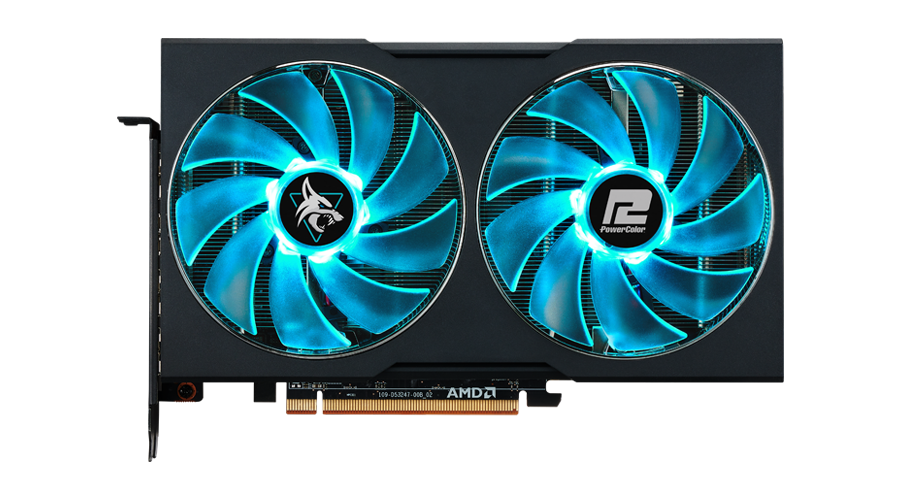
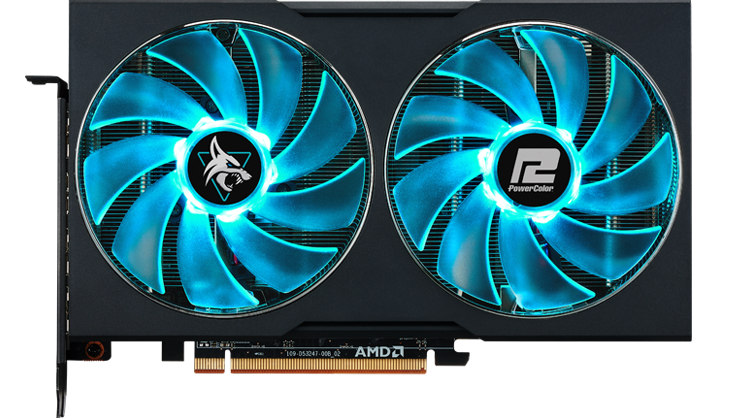
main

diff --git a/Grafikkarten.html b/Grafikkarten.html
@@ -16,36 +16,36 @@
 			</nav>
       <!--Produkte-->
       <div class="grid">
-        <h2 class="ASUS-TUF-Gaming-GeForce-RTX-3060-V2-OC">Grafikkarten/ASUS TUF Gaming GeForce RTX 3060 V2 OC<p class=""> <br></p></h2>
-        <h2 class="ASUS-Dual-GeForce-RTX-3060-Ti-V2-OC">ASUS Dual GeForce RTX 3060 Ti V2 OC<p class=""> <br></p></h2>
-        <h2 class="MSI-GeForce-RTX-3070-Gaming-Z-Trio">Bilder/Grafikkarten/MSI GeForce RTX 3070 Gaming Z Trio<p class=""> <br></p></h2>
-          <a class="ASUS-TUF-Gaming-GeForce-RTX-3060-V2-OC-img" href=""><img src="Bilder/Grafikkarten/ASUS TUF Gaming GeForce RTX 3060 V2 OC.png" height="90%" alt=""></a>
-          <a class="ASUS-Dual-GeForce-RTX-3060-Ti-V2-OC-img" href=""><img src="Bilder/Grafikkarten/ASUS Dual GeForce RTX 3060 Ti V2 OC.png" height="90%" alt=""></a>
-          <a class="MSI-GeForce-RTX-3070-Gaming-Z-Trio-img" href=""><img src="Bilder/Grafikkarten/MSI GeForce RTX 3070 Gaming Z Trio.png" height="90%" alt=""></a>
-        <h2 class="NVIDIA-GeForce-RTX-3070-Founders-Edition">NVIDIA GeForce RTX 3070 Founders Edition<p class=""> <br></p></h2>
-        <h2 class="MSI-GeForce-RTX-3070-Ti-Suprim-X">MSI GeForce RTX 3070 Ti Suprim X<p class=""> <br></p></h2>
-        <h2 class="GIGABYTE-AORUS-GeForce-RTX-3080-Master">GIGABYTE AORUS GeForce RTX 3080 Master<p class=""> <br></p></h2>
-          <a class="NVIDIA-GeForce-RTX-3070-Founders-Edition-img" href=""><img src="Bilder/Grafikkarten/NVIDIA GeForce RTX 3070 Founders Edition.png" height="90%" alt=""></a>
-          <a class="MSI-GeForce-RTX-3070-Ti-Suprim-X-img" href=""><img src="Bilder/Grafikkarten/MSI GeForce RTX 3070 Ti Suprim X .png" height="90%" alt=""></a>
-          <a class="GIGABYTE-AORUS-GeForce-RTX-3080-Master-img" href=""><img src="Bilder/Grafikkarten/GIGABYTE AORUS GeForce RTX 3080 Master.png" height="90%" alt=""></a>
-        <h2 class="">Bilder/Grafikkarten/NVIDIA GeForce RTX 3080 Founders Edition<p class=""> <br></p></h2>
-        <h2 class="">Bilder/Grafikkarten/KFA² GeForce RTX 2080 Ti HOF<p class=""> <br></p></h2>
-        <h2 class="">NVIDIA GeForce RTX 3090 Founders Edition<p class=""> <br></p></h2>
-          <a class="" href=""><img src="Bilder/Grafikkarten/NVIDIA GeForce RTX 3080 Founders Edition.png" height="90%" alt=""></a>
-          <a class="" href=""><img src="Bilder/Grafikkarten/KFA² GeForce RTX 2080 Ti HOF.png" height="90%" alt=""></a>
-          <a class="" href=""><img src="Bilder/Grafikkarten/NVIDIA GeForce RTX 3090 Founders Edition.png" height="90%" alt=""></a>
-        <h2 class="">ASUS ROG Strix GeForce RTX 3090 OC<p class=""> <br></p></h2>
-        <h2 class="">PowerColor Radeon RX 6600 Hellhound<p class=""> <br></p></h2>
-        <h2 class="">MSI Radeon RX 6600 XT Gaming X<p class=""> <br></p></h2>
-          <a class="" href=""><img src="Bilder/Grafikkarten/ASUS ROG Strix GeForce RTX 3090 OC.png" height="90%" alt=""></a>
-          <a class="" href=""><img src="Bilder/Grafikkarten/PowerColor Radeon RX 6600 Hellhound.png" height="90%" alt=""></a>
-          <a class="" href=""><img src="Bilder/Grafikkarten/MSI Radeon RX 6600 XT Gaming X.png" height="90%" alt=""></a>
-        <h2 class="">ASUS Radeon RX 6700 XT Dual<p class=""> <br></p></h2>
-        <h2 class="">PowerColor Radeon RX 6800 XT Red Devil<p class=""> <br></p></h2>
-        <h2 class="">Sapphire Toxic Radeon RX 6900 XT<p class=""> <br></p></h2>
-          <a class="" href=""><img src="Bilder/Grafikkarten/ASUS Radeon RX 6700 XT Dual.png" height="90%" alt=""></a>
-          <a class="" href=""><img src="Bilder/Grafikkarten/PowerColor Radeon RX 6800 XT Red Devil.png" height="90%" alt=""></a>
-          <a class="" href=""><img src="Bilder/Grafikkarten/Sapphire Toxic Radeon RX 6900 XT.png" height="90%" alt=""></a>
+        <h2 class="ASUS-TUF-Gaming-GeForce-RTX-3060-V2-OC">ASUS TUF Gaming GeForce RTX 3060 V2 OC<p class=""> <br>699,00€</p></h2>
+        <h2 class="ASUS-Dual-GeForce-RTX-3060-Ti-V2-OC">ASUS Dual GeForce RTX 3060 Ti V2 OC<p class=""> <br>959,00€</p></h2>
+        <h2 class="MSI-GeForce-RTX-3070-Gaming-Z-Trio">MSI GeForce RTX 3070 Gaming Z Trio<p class=""> <br>1199,00€</p></h2>
+          <a class="ASUS-TUF-Gaming-GeForce-RTX-3060-V2-OC-img" href=""><img src="Bilder/Grafikkarten/ASUS TUF Gaming GeForce RTX 3060 V2 OC.png" height="70%" alt=""></a>
+          <a class="ASUS-Dual-GeForce-RTX-3060-Ti-V2-OC-img" href=""><img src="Bilder/Grafikkarten/ASUS Dual GeForce RTX 3060 Ti V2 OC.png" height="70%" alt=""></a>
+          <a class="MSI-GeForce-RTX-3070-Gaming-Z-Trio-img" href=""><img src="Bilder/Grafikkarten/MSI GeForce RTX 3070 Gaming Z Trio.png" height="70%" alt=""></a>
+        <h2 class="NVIDIA-GeForce-RTX-3070-Founders-Edition">NVIDIA GeForce RTX 3070 Founders Edition<p class=""> <br>519,00€</p></h2>
+        <h2 class="MSI-GeForce-RTX-3070-Ti-Suprim-X">MSI GeForce RTX 3070 Ti Suprim X<p class=""> <br>1290,00€</p></h2>
+        <h2 class="GIGABYTE-AORUS-GeForce-RTX-3080-Master">GIGABYTE AORUS GeForce RTX 3080 Master<p class=""> <br>1999,00€</p></h2>
+          <a class="NVIDIA-GeForce-RTX-3070-Founders-Edition-img" href=""><img src="Bilder/Grafikkarten/NVIDIA GeForce RTX 3070 Founders Edition.png" height="70%" alt=""></a>
+          <a class="MSI-GeForce-RTX-3070-Ti-Suprim-X-img" href=""><img src="Bilder/Grafikkarten/MSI GeForce RTX 3070 Ti Suprim X .png" height="70%" alt=""></a>
+          <a class="GIGABYTE-AORUS-GeForce-RTX-3080-Master-img" href=""><img src="Bilder/Grafikkarten/GIGABYTE AORUS GeForce RTX 3080 Master.png" height="70%" alt=""></a>
+        <h2 class="NVIDIA-GeForce-RTX-3080-Founders-Edition">NVIDIA GeForce RTX 3080 Founders Edition<p class=""> <br>719,00€</p></h2>
+        <h2 class="KFA²-GeForce-RTX-2080-Ti-HOF">KFA² GeForce RTX 3080 Ti HOF<p class=""> <br>Kein Preis</p></h2>
+        <h2 class="NVIDIA-GeForce-RTX-3090-Founders-Edition">NVIDIA GeForce RTX 3090 Founders Edition<p class=""> <br>1549,00</p></h2>
+          <a class="NVIDIA-GeForce-RTX-3080-Founders-Edition-img" href=""><img src="Bilder/Grafikkarten/NVIDIA GeForce RTX 3080 Founders Edition.png" height="70%" alt=""></a>
+          <a class="KFA²-GeForce-RTX-2080-Ti-HOF-img" href=""><img src="Bilder/Grafikkarten/KFA² GeForce RTX 2080 Ti HOF.png" height="65%" alt=""></a>
+          <a class="NVIDIA-GeForce-RTX-3090-Founders-Edition-img" href=""><img src="Bilder/Grafikkarten/NVIDIA GeForce RTX 3090 Founders Edition.png" height="70%" alt=""></a>
+        <h2 class="ASUS-ROG-Strix-GeForce-RTX-3090-OC">ASUS ROG Strix GeForce RTX 3090 OC<p class=""> <br>3049,00€</p></h2>
+        <h2 class="PowerColor-Radeon-RX-6600-Hellhound">PowerColor Radeon RX 6600 Hellhound<p class=""> <br>569,00€</p></h2>
+        <h2 class="MSI-Radeon-RX-6600-XT-Gaming-X">MSI Radeon RX 6600 XT Gaming X<p class=""> <br>669,00€</p></h2>
+          <a class="ASUS-ROG-Strix-GeForce-RTX-3090-OC-img" href=""><img src="Bilder/Grafikkarten/ASUS ROG Strix GeForce RTX 3090 OC.png" height="70%" alt=""></a>
+          <a class="PowerColor-Radeon-RX-6600-Hellhound-img" href=""><img src="Bilder/Grafikkarten/PowerColor Radeon RX 6600 Hellhound.png" height="65%" alt=""></a>
+          <a class="MSI-Radeon-RX-6600-XT-Gaming-X-img" href=""><img src="Bilder/Grafikkarten/MSI Radeon RX 6600 XT Gaming X.png" height="70%" alt=""></a>
+        <h2 class="ASUS-Radeon-RX-6700-XT-Dual">ASUS Radeon RX 6700 XT Dual<p class=""> <br>999,00€</p></h2>
+        <h2 class="PowerColor-Radeon-RX-6800-XT-Red-Devil">PowerColor Radeon RX 6800 XT Red Devil<p class=""> <br>1659,00€</p></h2>
+        <h2 class="Sapphire-Toxic-Radeon-RX-6900-XT">Sapphire Toxic Radeon RX 6900 XT<p class=""> <br>1689,00€</p></h2>
+          <a class="ASUS-Radeon-RX-6700-XT-Dual-img" href=""><img src="Bilder/Grafikkarten/ASUS Radeon RX 6700 XT Dual.png" height="65%" alt=""></a>
+          <a class="PowerColor-Radeon-RX-6800-XT-Red-Devil-img" href=""><img src="Bilder/Grafikkarten/PowerColor Radeon RX 6800 XT Red Devil.png" height="70%" alt=""></a>
+          <a class="Sapphire-Toxic-Radeon-RX-6900-XT-img" href=""><img src="Bilder/Grafikkarten/Sapphire Toxic Radeon RX 6900 XT.png" height="70%" alt=""></a>
         
 
       </div>

diff --git a/Peripherie.html b/Peripherie.html
@@ -17,21 +17,21 @@
         <h2 class="K95">Corsair K95 RGB Platinum<br><p class="">199.90€</p></h2>
         <h2 class="Logitech-G915-TKL">Logitech G915 TKL<br><p class="">229,90€</p></h2>
         <h2 class="Corsair-K65-RGB-Mini">Corsair K65 RGB Mini<br><p class="">139.90€</p></h2>
-          <a class="K95-img" href="Corsair K95.html"><img src="Bilder/Corsair K95.png" height="80%" alt="Corsair K95 RGB Platinum"></a>
-          <a class="Logitech-G915-TKL-img" href="Logitech G915.html"><img src="Bilder/Logitech G915 TKL.png" height="85%" alt="Logitech G915 TKL"></a>
-          <a class="Corsair-K65-RGB-Mini-img" href="Corsair K65 RGB Mini.html"><img src="Bilder/Corsair K65 RGB MINI.png" height="90%" alt="Corsair K65 RGB Mini"></a>
-        <h2 class="Logitech-G-Pro-X">Logitech G Pro X Superlight <br> Wireless Gaming Mouse<br><p class="">149.90€</p></h2>
+          <a class="K95-img" href="Corsair K95.html"><img src="Bilder/Corsair K95.png" height="75%" alt="Corsair K95 RGB Platinum"></a>
+          <a class="Logitech-G915-TKL-img" href="Logitech G915.html"><img src="Bilder/Logitech G915 TKL.png" height="75%" alt="Logitech G915 TKL"></a>
+          <a class="Corsair-K65-RGB-Mini-img" href="Corsair K65 RGB Mini.html"><img src="Bilder/Corsair K65 RGB MINI.png" height="75%" alt="Corsair K65 RGB Mini"></a>
+        <h2 class="Logitech-G-Pro-X">Logitech G Pro X <br> Wireless Gaming Mouse<br><p class="">149.90€</p></h2>
         <h2 class="ASUS-ROG-Chakram-Core">ASUS ROG Chakram Core<br><p class="">99.90€</p></h2>
         <h2 class="Corsair-Dark-core-RGB-Pro">Corsair Dark Core RGB Pro<br><p class="">74.90€</p></h2>
-          <a class="Logitech-G-Pro-X-img" href="Logitech G Pro X Superlight Wireless Gaming Mouse.html"><img src="Bilder/Logitech-G-Pro-X.png" height="90%" alt="Logitech G Pro X Superlight Wireless Gaming Mouse"></a>
-          <a class="ASUS-ROG-Chakram-Core-img" href="ASUS ROG Chakram Core.html"><img src="Bilder/ASUS ROG Chakram Core.png" height="90%" alt="ASUS ROG Chakram Core"></a>
-          <a class="Corsair-Dark-core-RGB-Pro-img" href="Corsair Dark Core RGB Pro.html"><img src="Bilder/Corsair Dark Core RGB Pro.png" height="90%" alt="Corsair Dark Core RGB Pro"></a>
+          <a class="Logitech-G-Pro-X-img" href="Logitech G Pro X Superlight Wireless Gaming Mouse.html"><img src="Bilder/Logitech-G-Pro-X.png" height="75%" alt="Logitech G Pro X Superlight Wireless Gaming Mouse"></a>
+          <a class="ASUS-ROG-Chakram-Core-img" href="ASUS ROG Chakram Core.html"><img src="Bilder/ASUS ROG Chakram Core.png" height="75%" alt="ASUS ROG Chakram Core"></a>
+          <a class="Corsair-Dark-core-RGB-Pro-img" href="Corsair Dark Core RGB Pro.html"><img src="Bilder/Corsair Dark Core RGB Pro.png" height="75%" alt="Corsair Dark Core RGB Pro"></a>
         <h2 class="Logitech-G-Pro-X-Gaming-Headset">Logitech G Pro X Gaming Headset<br><p class="">84.90€</p></h2>
         <h2 class="SteelSeries-Arctis-9-Wireless">SteelSeries Arctis 9 Wireless<br><p class="">199.90€</p></h2>
         <h2 class="Razer-BlackShark-V2-Pro">Razer BlackShark V2 Pro<br><p class="">199.90€</p></h2>
-          <a class="Logitech-G-Pro-X-Gaming-Headset-img" href="Logitech G Pro X Gaming Headset.html"><img src="Bilder/Logitech G Pro X Gaming Headset.png" height="90%" alt="Logitech G Pro X Gaming Headset"></a>
-          <a class="SteelSeries-Arctis-9-Wireless-img" href="SteelSeries Arctis 9 Wireless.html"><img src="Bilder/SteelSeries Arctis 9 Wireless.png" height="90%" alt="SteelSeries Arctis 9 Wireless"></a>
-          <a class="Razer-BlackShark-V2-Pro-img" href=""><img src="Bilder/Razer BlackShark V2 Pro.png" height="90%" alt="Razer BlackShark V2 Pro"></a>
+          <a class="Logitech-G-Pro-X-Gaming-Headset-img" href="Logitech G Pro X Gaming Headset.html"><img src="Bilder/Logitech G Pro X Gaming Headset.png" height="75%" alt="Logitech G Pro X Gaming Headset"></a>
+          <a class="SteelSeries-Arctis-9-Wireless-img" href="SteelSeries Arctis 9 Wireless.html"><img src="Bilder/SteelSeries Arctis 9 Wireless.png" height="75%" alt="SteelSeries Arctis 9 Wireless"></a>
+          <a class="Razer-BlackShark-V2-Pro-img" href=""><img src="Bilder/Razer BlackShark V2 Pro.png" height="75%" alt="Razer BlackShark V2 Pro"></a>
       </div>
   </body>
 </html>

diff --git a/CSS/Grafikkarten.css b/CSS/Grafikkarten.css
@@ -21,24 +21,25 @@ nav {
   display: grid;
   background-color: #000000;
   grid-template-columns: 30% 10%;
-  grid-template-rows: 9em
+  grid-template-rows: 6em;
 }
 .grid {
   margin-top: 5%;
   text-align: center;
   display: grid;
-  grid-template-columns: 1fr 1fr 1fr ;
+  grid-template-columns: 31% 32% 31% ;
   column-gap: 3%;
-  row-gap: 1.5%;
-  grid-template-rows: 10.5em 20em 10.5em 20em 10.5em 20em 10.5em 20em 10.5em 20em  ;
+  grid-template-rows: auto 20em auto 20em auto 20em auto 20em auto 20em  ;
   grid-template-areas: 
   "ASUS-TUF-Gaming-GeForce-RTX-3060-V2-OC ASUS-Dual-GeForce-RTX-3060-Ti-V2-OC MSI-GeForce-RTX-3070-Gaming-Z-Trio"
   "ASUS-TUF-Gaming-GeForce-RTX-3060-V2-OC-img ASUS-Dual-GeForce-RTX-3060-Ti-V2-OC-img MSI-GeForce-RTX-3070-Gaming-Z-Trio-img"
   "NVIDIA-GeForce-RTX-3070-Founders-Edition MSI-GeForce-RTX-3070-Ti-Suprim-X GIGABYTE-AORUS-GeForce-RTX-3080-Master"
   "NVIDIA-GeForce-RTX-3070-Founders-Edition-img MSI-GeForce-RTX-3070-Ti-Suprim-X-img GIGABYTE-AORUS-GeForce-RTX-3080-Master-img"
-  ""
-  "" 
-  "" 
-  ""
+  "NVIDIA-GeForce-RTX-3080-Founders-Edition KFA²-GeForce-RTX-2080-Ti-HOF NVIDIA-GeForce-RTX-3090-Founders-Edition"
+  "NVIDIA-GeForce-RTX-3080-Founders-Edition-img KFA²-GeForce-RTX-2080-Ti-HOF-img NVIDIA-GeForce-RTX-3090-Founders-Edition-img" 
+  "ASUS-ROG-Strix-GeForce-RTX-3090-OC PowerColor-Radeon-RX-6600-Hellhound MSI-Radeon-RX-6600-XT-Gaming-X" 
+  "ASUS-ROG-Strix-GeForce-RTX-3090-OC-img PowerColor-Radeon-RX-6600-Hellhound-img MSI-Radeon-RX-6600-XT-Gaming-X-img"
+  "ASUS-Radeon-RX-6700-XT-Dual PowerColor-Radeon-RX-6800-XT-Red-Devil Sapphire-Toxic-Radeon-RX-6900-XT"
+  "ASUS-Radeon-RX-6700-XT-Dual-img PowerColor-Radeon-RX-6800-XT-Red-Devil-img Sapphire-Toxic-Radeon-RX-6900-XT-img"
 ;
 }

diff --git a/Hadware.html b/Hadware.html
@@ -16,9 +16,9 @@
       <p class="Grafikkarten">Grafikkarten</p>
       <p class="Prozessoren">Prozessoren</p>
       <p class="Peripherie">Peripherie</p>
-      <a class=Grafikkarten-img" href="Grafikkarten.html"><img src="Bilder/SUSvidia/3090fe.png" height="80%"></a>
-      <a class="Prozessoren-img" href="Prozessoren.html"><img src="Bilder/Reperatur sins.png" alt="Geiler guy" height="80%"></a>
-      <a class="Peripherie-img" href="Peripherie.html"><img src="Bilder/Corsair K95.png" height="80%"></a>
+      <a class=Grafikkarten-img" href="Grafikkarten.html"><img src="Bilder/SUSvidia/3090fe.png" height="60%"></a>
+      <a class="Prozessoren-img" href="Prozessoren.html"><img src="Bilder/Reperatur sins.png" alt="Geiler guy" height="70%"></a>
+      <a class="Peripherie-img" href="Peripherie.html"><img src="Bilder/Corsair K95.png" height="69%"></a>
    </div>
   </body>
 </html>

diff --git a/CSS/Periperie.css b/CSS/Periperie.css
@@ -20,17 +20,16 @@ nav {
   display: grid;
   background-color: #000000;
   grid-template-columns: 30% 10%;
-  grid-template-rows: 9em
+  grid-template-rows: 6em;
   
 }
 .grid {
   margin-top: 5%;
   text-align: center;
   display: grid;
-  grid-template-columns: 1fr 1fr 1fr ;
+  grid-template-columns: 31% 32% 31% ;
   column-gap: 3%;
-  row-gap: 1.5%;
-  grid-template-rows: 8em 20em 10.5em 20em 10.5em 20em;
+  grid-template-rows: auto 15em auto 15em auto 15em;
   grid-template-areas: 
   "K95 Logitech-G915-TKL Corsair-K65-RGB-Mini"
   "K95-img Logitech-G915-TKL-img Corsair-K65-RGB-Mini-img"

diff --git a/css/Hadware.css b/css/Hadware.css
@@ -8,7 +8,7 @@ nav {
   display: grid;
   background-color: #000000;
   grid-template-columns: 30% 40% ;
-  grid-template-rows: 9em
+  grid-template-rows: 6em;
 }
 
 p{
@@ -22,9 +22,10 @@ p{
   margin-top: 5rem;
   text-align: center;
   display: grid;
-  grid-template-columns: 1fr 1fr 1fr ;
-  grid-template-rows: 8rem 20rem;
+  grid-template-columns:  31% 32% 31% ;
+  grid-template-rows: auto 20rem;
   column-gap: 3%;
+  row-gap: 5%;
   grid-template-areas: 
   "Grafikkarten Prozessoren Peripherie"
   "Grafikkarten-img Prozessoren-img Peripherie-img"

diff --git a/css/csscoba.css b/css/csscoba.css
@@ -15,7 +15,7 @@ nav {
   display: grid;
   background-color: #000000;
   grid-template-columns: 30% 10%;
-  grid-template-rows: 9em
+  grid-template-rows: 6em;
 }
 #Logo{
   text-align: left;
@@ -24,8 +24,9 @@ nav {
   margin-top: 5rem;
   text-align: center;
   display: grid;
-  grid-template-columns: 1fr 1fr 1fr ;
-  grid-template-rows: 8em 20em;
+  grid-template-columns: 31% 32% 31% ;
+  row-gap: 5%;
+  grid-template-rows: auto 20em;
   column-gap: 3%;
   grid-template-areas: 
   "Hardware Reperatur Fertig-pc"

diff --git a/CSS/Prozessoren.css b/CSS/Prozessoren.css
@@ -15,13 +15,13 @@ nav {
   display: grid;
   background-color: #000000;
   grid-template-columns: 30% 10%;
-  grid-template-rows: 9em
+  grid-template-rows: 6em;
 }
 .grid {
   margin-top: 5%;
   text-align: center;
   display: grid;
-  grid-template-columns: 1fr 1fr 1fr ;
+  grid-template-columns: 31% 32% 31% ;
   column-gap: 3%;
   row-gap: 1.5%;
   grid-template-rows: 8em 20em 10.5em 20em 10.5em 20em;
